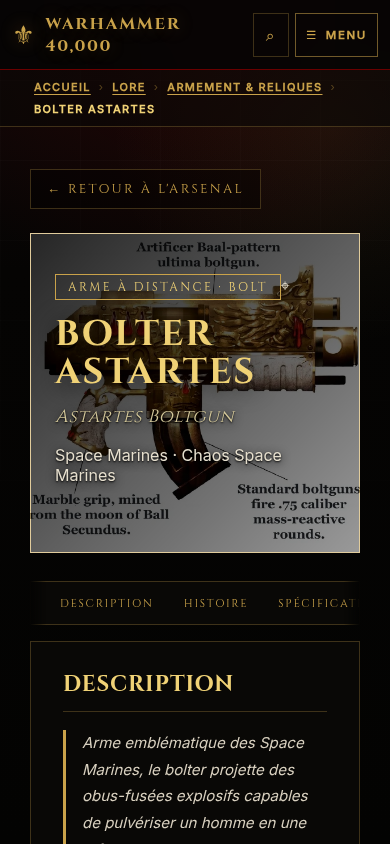
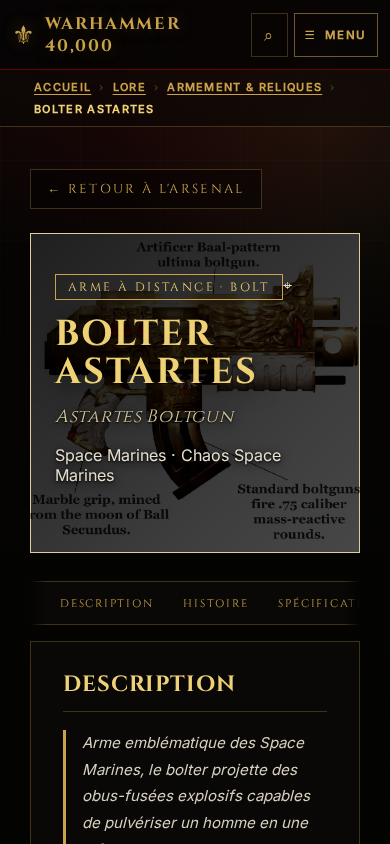
docs(L15): Nouveautés, captures reprises sur l'interface corrigée (⛶ visible, recherche à 36 px, en-tête voilé), données régénérées

diff --git a/docs/nouveautes/2026-10-28-armement-reliques-cartes-et-filtres-utilisables-au-clavier.md b/docs/nouveautes/2026-10-28-armement-reliques-cartes-et-filtres-utilisables-au-clavier.md
@@ -11,4 +11,4 @@ captures:
 # une capture peut dire ce qu'elle montre : captures: [{ file: captures/x.png, alt: "texte alternatif" }]
 # nocapture: raison, quand une capture n'a pas de sens
 ---
-Sur la page Armement & Reliques, chaque carte s'ouvre désormais au clavier : Tab jusqu'au nom de la pièce, Entrée pour la déplier. Le bouton ⛶ « Voir en grand » porte le nom de la pièce et n'apparaît que lorsque son image est chargée. Les filtres de type annoncent celui qui est actif, la recherche et le choix de faction ont un nom pour les lecteurs d'écran, et le texte du filtre « Armes de mêlée » est plus lisible. Sur téléphone, le bandeau de filtres ne reste plus collé en haut de l'écran pendant le défilement. Sur la fiche d'une pièce, les factions liées s'affichent par leur nom (« Space Marines ») et non plus par leur identifiant (« space-marines »).
+Sur la page Armement & Reliques, chaque carte s'ouvre désormais au clavier : Tab jusqu'au nom de la pièce, Entrée pour la déplier. Le bouton ⛶ « Voir en grand » porte le nom de la pièce et n'apparaît que lorsque son image est chargée. Les filtres de type annoncent celui qui est actif, la recherche et le choix de faction ont un nom pour les lecteurs d'écran, et le texte du filtre « Armes de mêlée » est plus lisible. Sur téléphone, le bandeau de filtres ne reste plus collé en haut de l'écran pendant le défilement. Sur la fiche d'une pièce, les factions liées s'affichent par leur nom (« Space Marines ») et non plus par leur identifiant (« space-marines »), et le texte de l'en-tête reste lisible même sur une image claire.
